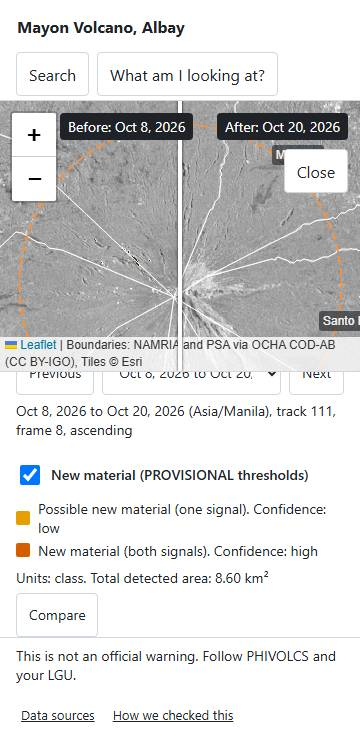
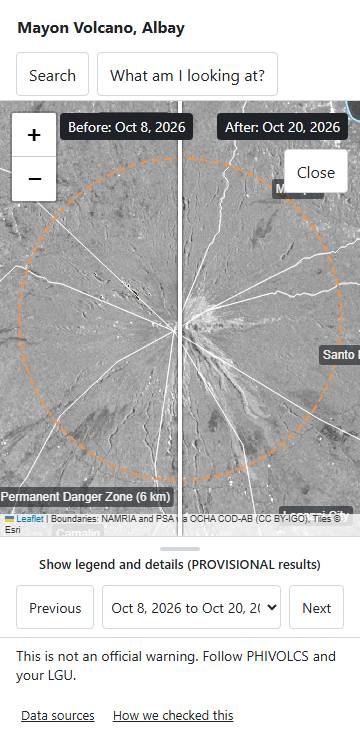
T-034: turn the phone panel into a drawer so the map comes first

diff --git a/site/js/main.js b/site/js/main.js
@@ -4,6 +4,7 @@
 
 import { createCompare } from "./compare.js";
 import { loadPair, loadSiteData, loadSites } from "./data.js";
+import { createDrawer } from "./drawer.js";
 import { createNewMaterialLayer } from "./layers.js";
 import { createMap, RADAR_PANE } from "./map.js";
 import { createPanel, fillCheck, fillHelp, fillPicker, fillSources } from "./panels.js";
@@ -15,7 +16,7 @@ import { createTimeline } from "./timeline.js";
 const byId = (id) => document.getElementById(id);
 
 // What is on screen now.
-const app = { sites: [], site: null, map: null, pair: null, compare: null, openRequest: 0 };
+const app = { sites: [], site: null, map: null, pair: null, compare: null, drawer: null, openRequest: 0 };
 
 function showError(text, retry) {
   byId("app-message").textContent = text;
@@ -78,7 +79,11 @@ function setUpPairs(map, site, siteData, readout) {
   }, site);
   // There is nothing to compare until the first pair has loaded.
   byId("compare-button").disabled = true;
-  byId("compare-button").onclick = () => app.compare.open(app.pair);
+  byId("compare-button").onclick = async () => {
+    await app.compare.open(app.pair);
+    // On a phone the images need the room. An error stays readable in the open drawer.
+    if (!byId("compare-view").hidden) app.drawer.close();
+  };
   const siteIsShown = () => app.site === site;
   return createTimeline({
     list: byId("pair-list"),
@@ -152,6 +157,9 @@ async function openSite(site) {
 }
 
 function setUpPanels() {
+  app.drawer = createDrawer(byId("panel"), byId("drawer-toggle"), () => {
+    if (app.map) app.map.invalidateSize({ animate: false });
+  });
   const help = createPanel(byId("help-panel"), (body) => fillHelp(body, () => app.pair));
   const sources = createPanel(byId("sources-panel"), (body) => fillSources(body, () => app.pair, app.site.time_zone));
   const picker = createPanel(byId("picker-panel"), (body) => fillPicker(body, app.sites, (site) => {

diff --git a/site/js/drawer.js b/site/js/drawer.js
@@ -1,0 +1,48 @@
+// The phone drawer: on a small screen the map comes first, and the pair's details
+// and legend slide up when asked for. On a large screen the CSS hides the handle
+// and always shows everything, so nothing here has any effect there.
+
+import { STRINGS } from "./strings.js";
+
+const SWIPE_PX = 30; // a finger moving less than this is a tap, not a swipe
+
+// `onResize` runs after the drawer changes the map's height.
+export function createDrawer(panel, toggle, onResize) {
+  let startY = null;
+  let swiped = false;
+
+  function setOpen(open) {
+    panel.classList.toggle("drawer-closed", !open);
+    toggle.setAttribute("aria-expanded", String(open));
+    toggle.textContent = open ? STRINGS.drawerHide : STRINGS.drawerShow;
+    onResize();
+  }
+
+  const isOpen = () => !panel.classList.contains("drawer-closed");
+
+  toggle.onpointerdown = (event) => {
+    // Keep getting this pointer's events after it moves off the handle.
+    toggle.setPointerCapture(event.pointerId);
+    startY = event.clientY;
+    swiped = false;
+  };
+  toggle.onpointerup = (event) => {
+    if (startY === null) return;
+    const moved = event.clientY - startY;
+    startY = null;
+    if (Math.abs(moved) < SWIPE_PX) return;
+    swiped = true;
+    setOpen(moved < 0); // up opens, down closes
+  };
+  toggle.onpointercancel = () => {
+    startY = null;
+  };
+  // A swipe also ends in a click, which must not toggle the drawer straight back.
+  toggle.onclick = () => {
+    if (!swiped) setOpen(!isOpen());
+    swiped = false;
+  };
+
+  setOpen(false);
+  return { close: () => setOpen(false) };
+}

diff --git a/site/css/app.css b/site/css/app.css
@@ -76,6 +76,9 @@ body {
   border-top: 1px solid var(--line);
 }
 
+/* The drawer's handle only shows on phones (see the end of this file). */
+.drawer-toggle { display: none; }
+
 .panel {
   display: flex;
   flex-wrap: wrap;
@@ -416,6 +419,31 @@ button:disabled { color: #6e7781; }
 @media (max-width: 700px) {
   .topbar { padding: 4px 16px; gap: 4px; }
   .map-area, #map { min-height: 200px; }
-  .panel { flex: none; max-height: 36vh; overflow-y: auto; }
+  .panel { flex: none; max-height: 45vh; overflow-y: auto; padding-top: 0; gap: 4px 24px; }
+  .drawer-toggle {
+    display: block;
+    flex: 1 1 100%;
+    border: 0;
+    border-radius: 0;
+    font-size: 13px;
+    font-weight: 600;
+    touch-action: none; /* a swipe here moves the drawer, not the page */
+  }
+  .drawer-toggle::before {
+    content: "";
+    display: block;
+    width: 40px;
+    height: 4px;
+    margin: 0 auto 4px;
+    border-radius: 2px;
+    background: var(--line);
+  }
+  /* Closed: only the handle and the pass controls, so the map gets the room. */
+  .drawer-closed .legend,
+  .drawer-closed .pair-label,
+  .drawer-closed .pair-events { display: none; }
+  .drawer-closed .timeline-status:has(#timeline-message:empty):has(#timeline-retry[hidden]) { display: none; }
+  .timeline-controls select { padding: 0 4px; }
+  .leaflet-control-attribution { font-size: 9px; line-height: 1.2; }
   .footer { flex: none; font-size: 13px; }
 }

diff --git a/site/index.html b/site/index.html
@@ -54,7 +54,8 @@
     <button id="app-retry" type="button" data-text="retry" hidden></button>
   </div>
 
-  <section id="panel" class="panel" data-label="panelLabel" hidden>
+  <section id="panel" class="panel drawer-closed" data-label="panelLabel" hidden>
+    <button id="drawer-toggle" class="drawer-toggle" type="button" aria-expanded="false"></button>
     <div class="timeline">
       <div class="timeline-controls">
         <button id="previous" type="button" data-text="previous"></button>

diff --git a/site/js/strings.js b/site/js/strings.js
@@ -12,6 +12,8 @@ export const STRINGS = {
   radarPassList: "Radar pass",
   mapLabel: "Map of the selected site",
   panelLabel: "Radar pass and legend",
+  drawerShow: "Show legend and details (PROVISIONAL results)",
+  drawerHide: "Hide legend and details",
   disclaimer: "This is not an official warning. Follow PHIVOLCS and your LGU.",
   loadingRadar: "Loading radar data…",
   backgroundUnavailable: "Background map unavailable",

diff --git a/pipeline/tests/e2e/test_drawer.py b/pipeline/tests/e2e/test_drawer.py
@@ -1,0 +1,123 @@
+"""Browser tests for the phone drawer: the map comes first, and the details slide up."""
+import pytest
+from playwright.sync_api import expect
+
+from .conftest import open_drawer_if_closed, prepare_page, wait_until_ready
+
+pytestmark = pytest.mark.e2e
+
+DISCLAIMER = "This is not an official warning. Follow PHIVOLCS and your LGU."
+
+
+@pytest.fixture
+def phone(page, site_url):
+    prepare_page(page, width=360, height=740)
+    page.goto(site_url)
+    wait_until_ready(page)
+    return page
+
+
+def height(page, selector):
+    return page.locator(selector).bounding_box()["height"]
+
+
+def map_size_is_current(page):
+    return page.evaluate("testMap.getSize().y === testMap.getContainer().clientHeight")
+
+
+def swipe(page, from_y, to_y):
+    box = page.locator("#drawer-toggle").bounding_box()
+    x = box["x"] + box["width"] / 2
+    page.mouse.move(x, box["y"] + box["height"] / 2)
+    page.mouse.down()
+    page.mouse.move(x, box["y"] + box["height"] / 2 + (to_y - from_y), steps=5)
+    page.mouse.up()
+
+
+def test_closed_on_a_phone_and_the_map_is_bigger_than_the_panel(phone):
+    expect(phone.locator("#drawer-toggle")).to_have_attribute("aria-expanded", "false")
+    expect(phone.locator("#legend-rows")).to_be_hidden()
+    expect(phone.locator("#pair-list")).to_be_visible()
+    assert height(phone, "#map") > 2 * height(phone, "#panel")
+    assert map_size_is_current(phone)
+
+
+def test_the_closed_drawer_says_the_results_are_provisional(phone):
+    expect(phone.locator("#drawer-toggle")).to_contain_text("PROVISIONAL")
+
+
+def test_tap_opens_and_closes(phone):
+    closed_height = height(phone, "#map")
+    phone.click("#drawer-toggle")
+    expect(phone.locator("#drawer-toggle")).to_have_attribute("aria-expanded", "true")
+    expect(phone.locator("#legend-rows")).to_be_visible()
+    expect(phone.locator("#compare-button")).to_be_visible()
+    assert height(phone, "#map") < closed_height
+    assert map_size_is_current(phone)
+    phone.click("#drawer-toggle")
+    expect(phone.locator("#legend-rows")).to_be_hidden()
+    assert height(phone, "#map") == closed_height
+    assert map_size_is_current(phone)
+
+
+def test_swipe_up_opens_and_swipe_down_closes(phone):
+    swipe(phone, 0, -60)
+    expect(phone.locator("#drawer-toggle")).to_have_attribute("aria-expanded", "true")
+    swipe(phone, 0, 60)
+    expect(phone.locator("#drawer-toggle")).to_have_attribute("aria-expanded", "false")
+
+
+def test_disclaimer_stays_on_screen_either_way(phone):
+    expect(phone.locator(".disclaimer")).to_be_in_viewport()
+    phone.click("#drawer-toggle")
+    expect(phone.locator(".disclaimer")).to_have_text(DISCLAIMER)
+    expect(phone.locator(".disclaimer")).to_be_in_viewport()
+
+
+def test_no_sideways_scroll_either_way(phone):
+    assert phone.evaluate("document.documentElement.scrollWidth <= window.innerWidth")
+    phone.click("#drawer-toggle")
+    assert phone.evaluate("document.documentElement.scrollWidth <= window.innerWidth")
+
+
+def test_compare_closes_the_drawer_to_give_the_map_room(phone):
+    phone.click("#drawer-toggle")
+    phone.click("#compare-button")
+    expect(phone.locator("#compare-view")).to_be_visible()
+    expect(phone.locator("#drawer-toggle")).to_have_attribute("aria-expanded", "false")
+    assert map_size_is_current(phone)
+
+
+def test_a_compare_error_keeps_the_drawer_open_so_it_can_be_read(phone):
+    phone.route("**/before_db.png", lambda route: route.fulfill(status=404))
+    phone.click("#drawer-toggle")
+    phone.click("#compare-button")
+    expect(phone.locator("#compare-message")).to_be_visible()
+    expect(phone.locator("#compare-message")).to_have_text("Before/after images not available for this pair")
+
+
+def test_latest_pass_message_shows_with_the_drawer_closed(phone):
+    phone.click("#next")
+    expect(phone.locator("#timeline-message")).to_have_text("This is the latest pass")
+    expect(phone.locator("#timeline-message")).to_be_visible()
+
+
+def test_danger_zone_label_shows_clear_of_the_credits_at_the_default_view(phone):
+    label = phone.locator(".zone-label").bounding_box()
+    credits = phone.locator(".leaflet-control-attribution").bounding_box()
+    area = phone.locator("#map").bounding_box()
+    assert label["y"] + label["height"] <= credits["y"]
+    assert label["y"] >= area["y"]
+
+
+def test_helper_opens_only_when_closed(phone):
+    open_drawer_if_closed(phone)
+    open_drawer_if_closed(phone)
+    expect(phone.locator("#legend-rows")).to_be_visible()
+
+
+def test_desktop_has_no_drawer(app):
+    expect(app.locator("#drawer-toggle")).to_be_hidden()
+    expect(app.locator("#legend-rows")).to_be_visible()
+    expect(app.locator("#pair-label")).to_be_visible()
+    expect(app.locator("#compare-button")).to_be_visible()

diff --git a/pipeline/tests/e2e/test_mvp.py b/pipeline/tests/e2e/test_mvp.py
@@ -12,7 +12,7 @@ from playwright.sync_api import expect
 
 from mrw.validation import build_record, load_sheet
 
-from .conftest import envelope, prepare_page, read_data, read_fixture, wait_until_ready
+from .conftest import envelope, open_drawer_if_closed, prepare_page, read_data, read_fixture, wait_until_ready
 
 pytestmark = pytest.mark.e2e
 
@@ -391,7 +391,8 @@ def test_tc042_phone_layout(page, site_url):
     too_small = [row for row in controls_too_small(page) if "Leaflet" not in row["name"]]
     assert too_small == []
     # Every control can be reached and used.
-    page.locator("#compare-button").scroll_into_view_if_needed()
+    open_drawer_if_closed(page)
+    assert [row for row in controls_too_small(page) if "Leaflet" not in row["name"]] == []
     page.click("#compare-button")
     expect(page.locator("#compare-view")).to_be_visible()
     assert no_sideways_scroll()

diff --git a/pipeline/tests/e2e/test_screens.py b/pipeline/tests/e2e/test_screens.py
@@ -10,7 +10,7 @@ from pathlib import Path
 
 import pytest
 
-from .conftest import ROOT, prepare_page, read_fixture, wait_until_ready
+from .conftest import ROOT, open_drawer_if_closed, prepare_page, read_fixture, wait_until_ready
 
 pytestmark = pytest.mark.e2e
 
@@ -40,7 +40,7 @@ def open_search(page):
 
 
 def open_compare(page):
-    page.locator("#compare-button").scroll_into_view_if_needed()
+    open_drawer_if_closed(page)
     page.click("#compare-button")
     page.locator("#compare-view").wait_for()
 
@@ -54,6 +54,7 @@ def opener(button, panel):
 
 SCREENS = {
     "main": open_nothing,
+    "drawer-open": open_drawer_if_closed,
     "readout": open_readout,
     "search": open_search,
     "compare": open_compare,

diff --git a/pipeline/tests/e2e/test_labels.py b/pipeline/tests/e2e/test_labels.py
@@ -2,7 +2,7 @@
 import pytest
 from playwright.sync_api import expect
 
-from .conftest import prepare_page, wait_until_ready
+from .conftest import open_drawer_if_closed, prepare_page, wait_until_ready
 
 pytestmark = pytest.mark.e2e
 
@@ -85,7 +85,7 @@ def test_date_labels_stay_in_front_of_the_divider(page, site_url, width, height)
     prepare_page(page, width=width, height=height)
     page.goto(site_url)
     wait_until_ready(page)
-    page.locator("#compare-button").scroll_into_view_if_needed()
+    open_drawer_if_closed(page)
     page.click("#compare-button")
     expect(page.locator("#compare-view")).to_be_visible()
     box = page.locator("#compare-before").bounding_box()

diff --git a/pipeline/tests/e2e/conftest.py b/pipeline/tests/e2e/conftest.py
@@ -94,6 +94,13 @@ def prepare_page(page, width=1280, height=800, tiles="fake"):
         page.route(TILE_HOST, lambda route: route.abort())
 
 
+def open_drawer_if_closed(page):
+    """On a phone the Compare button is inside the drawer. On a desktop this does nothing."""
+    toggle = page.locator("#drawer-toggle")
+    if toggle.is_visible() and toggle.get_attribute("aria-expanded") == "false":
+        toggle.click()
+
+
 @pytest.fixture
 def app(page, site_url):
     """The app, open at 1280 px with its latest pair on screen."""

diff --git a/NIGHT_REPORT.md b/NIGHT_REPORT.md
@@ -348,3 +348,17 @@ Your own observations mostly hold. Ligao and Guinobatan: 41–80% of detections 
 - 05 `context_use` has no value for analysis data, so WorldCover and the elevation model are listed as `validation`, and they now appear in the Data sources panel.
 - 08 TC-020 and TC-031 need an eruption pair, which the blind rule forbids for now.
 - 08 §5 asks for fixture files for the missing-image and zero-area pairs. The tests make those in the browser instead, so no large copies are stored. `grid_cells.json` and `empty_pairs.json` are real files.
+
+## After the Day 3 report
+
+These replace the matching lines above where they differ.
+
+- **Pushed:** you asked for `night-1` to be pushed, and commit 3caa367 went up. `main` wasn't touched, and nothing deployed.
+- **CI ran for the first time and passed** on 3caa367: secret scan, tests, browser tests and contract check. The fake-secret test still hasn't been done.
+- **Real phone check passed.** You ran it in Brave on your phone over Wi-Fi and reported that every step worked, including the finger drag of the divider. It used a local server, not the live site.
+- **404 page:** you set Pages to GitHub Actions. The live address still shows GitHub's own 404, because nothing is deployed. It needs your yes to merge into `main`.
+- **Phone drawer, at your request:** you found the lower panel bigger than the map. On phones it's now a drawer, closed by default, opened by tapping or swiping its handle. `site/js/drawer.js`, tests in `pipeline/tests/e2e/test_drawer.py`.
+  - Closed, it keeps the pass controls and says the results are PROVISIONAL. The legend and total area are one tap away, which is a trade-off, since a first-time visitor won't see them straight away.
+  - The map at 360 px went from about 270 px to about 435 px tall, so the whole ring and its label now show. That settles decision 4, the phone map zoom.
+  - The drawer tests against the old site code: 9 failed, 3 passed. Full run now: `pytest -q`: 310 passed, 6 skipped, 1 expected failure. Contract check on `site/data`: 0 errors.
+  - The drawer hasn't been checked on a real phone yet. A swipe is emulated with a mouse in the tests.
